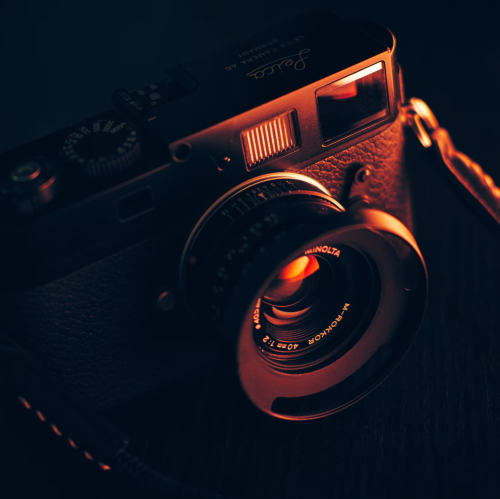
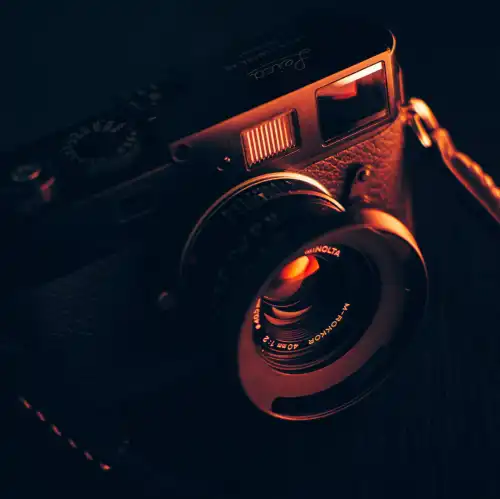
ajout des alt + compression et renommage des images

diff --git a/index.html b/index.html
@@ -4,7 +4,7 @@
 	<meta charset="UTF-8">
 	<meta name="viewport" content="width=device-width, initial-scale=1.0">
 	<title>Nina Carducci</title>
-	<link rel="preload" href="./assets/bootstrap/cleaned.min.css" as="style" onload="this.onload=null;this.rel='stylesheet'">
+	<link rel="preload" href="./assets/bootstrap/cleaned.css" as="style" onload="this.onload=null;this.rel='stylesheet'">
 	<link rel="stylesheet" href="./assets/style.css" defer>
 	<link rel="preconnect" href="https://fonts.googleapis.com">
 	<link rel="preconnect" href="https://fonts.gstatic.com" crossorigin>
@@ -24,7 +24,7 @@
 			<li><a href="#gallery">Galerie</a></li>
 			<li><a href="#services">Service</a></li>
 			<li><a href="#contact">Contact</a></li>
-			<li><a class="social-link" href="https://www.instagram.com/ninacarducci.photo/?hl=fr" target="_blank" aria-label="Lien vers le profil instagram"><img src="assets/images/instagram.webp" alt=""></a></li>
+			<li><a class="social-link" href="https://www.instagram.com/ninacarducci.photo/?hl=fr" target="_blank" aria-label="Lien vers le profil instagram"><img src="assets/images/instagram.webp" alt="Logo Instagram"></a></li>
 		</ul>
 	</nav>
 </div>
@@ -37,13 +37,13 @@
 		</div>
 		<div class="carousel-inner">
 			<div class="carousel-item active">
-				<img src="./assets/images/slider/ryoji-iwata-wUZjnOv7t0g-unsplash.webp" loading="eager" class="d-block w-100" alt="Homme d'affaire sur un passage piéton">
+				<img src="./assets/images/slider/homme-d-affaires-passage-pietons.webp" loading="eager" class="d-block w-100" alt="Homme d'affaire sur un passage piéton">
 			</div>
 			<div class="carousel-item">
-				<img src="./assets/images/slider/nicholas-green-nPz8akkUmDI-unsplash.webp" loading="eager" class="d-block w-100" alt="Public de concert de rock">
+				<img src="./assets/images/slider/public-concert-de-rock.webp" loading="eager" class="d-block w-100" alt="Public de concert de rock">
 			</div>
 			<div class="carousel-item">
-				<img src="./assets/images/slider/edward-cisneros-3_h6-1NPDGw-unsplash.webp" loading="eager" class="d-block w-100" alt="Jeunes mariés enlacés">
+				<img src="./assets/images/slider/jeunes-maries-enlaces.webp" loading="eager" class="d-block w-100" alt="Jeunes mariés enlacés">
 			</div>
 		</div>
 		<button class="carousel-control-prev" type="button" data-bs-target="#carouselExampleIndicators" data-bs-slide="prev">
@@ -60,7 +60,7 @@
 <main>
 <section id="about">
 	<div class="picture left">
-		<img src="./assets/images/nina.webp" alt="Nina Carducci">
+		<img src="./assets/images/nina-carducci.webp" alt="Nina Carducci">
 	</div>
 	<div id="about-me">
 		<h2 class="about-me__title">A propos de moi</h2>
@@ -73,15 +73,15 @@
 	<h2 class="title">Portfolio</h2>
 	<div class="container py-3">
 		<div class="gallery" style="display: none">
-			<img data-gallery-tag="Concert" class="gallery-item" src="./assets/images/gallery/concerts/aaron-paul-wnX-fXzB6Cw-unsplash.webp" tabindex="0"/>
-			<img data-gallery-tag="Entreprises" class="gallery-item" src="./assets/images/gallery/entreprise/ali-morshedlou-WMD64tMfc4k-unsplash.webp" tabindex="0"/>
-			<img data-gallery-tag="Entreprises" class="gallery-item" src="./assets/images/gallery/entreprise/jason-goodman-tHO1_OuKbg0-unsplash.webp" tabindex="0"/>
-			<img data-gallery-tag="Mariages" class="gallery-item" src="./assets/images/gallery/mariage/hannah-busing-RvF2R_qMpRk-unsplash.webp" tabindex="0"/>
-			<img data-gallery-tag="Portrait" class="gallery-item" src="./assets/images/gallery/portraits/ade-tunji-rVkhWWZFAtQ-unsplash.webp" tabindex="0"/>
-			<img data-gallery-tag="Mariages" class="gallery-item" src="./assets/images/gallery/mariage/jakob-owens-SiniLJkXhMc-unsplash.webp" tabindex="0"/>
-			<img data-gallery-tag="Portrait" class="gallery-item" src="./assets/images/gallery/portraits/nino-van-prattenburg-443cl1uR_8-unsplash.webp" tabindex="0"/>
-			<img data-gallery-tag="Concert" class="gallery-item" src="./assets/images/gallery/concerts/austin-neill-hgO1wFPXl3I-unsplash.webp" tabindex="0"/>
-			<img data-gallery-tag="Entreprises" class="gallery-item" src="./assets/images/gallery/entreprise/mateus-campos-felipe-Fsgzm8N0hIY-unsplash.webp" tabindex="0"/>
+			<img data-gallery-tag="Concert" class="gallery-item" src="./assets/images/gallery/concerts/photo-concert-lumieres-rouges.webp" tabindex="0" alt="Concert et lumières rouges"/>
+			<img data-gallery-tag="Entreprises" class="gallery-item" src="./assets/images/gallery/entreprise/photo-homme-d-affaire-costume.webp" tabindex="0" alt="Homme d'affaire en costume"/>
+			<img data-gallery-tag="Entreprises" class="gallery-item" src="./assets/images/gallery/entreprise/photo-femme-entreprise.webp" tabindex="0" alt="Femme en entreprise"/>
+			<img data-gallery-tag="Mariages" class="gallery-item" src="./assets/images/gallery/mariage/photo-mariage-mains.webp" tabindex="0" alt="Mains de mariés"/>
+			<img data-gallery-tag="Portrait" class="gallery-item" src="./assets/images/gallery/portraits/photo-portrait-homme-soleil.webp" tabindex="0" alt="Portrait d'homme au soleil"/>
+			<img data-gallery-tag="Mariages" class="gallery-item" src="./assets/images/gallery/mariage/photo-maries-palmier.webp" tabindex="0" alt="Mariés devant un palmier"/>
+			<img data-gallery-tag="Portrait" class="gallery-item" src="./assets/images/gallery/portraits/photo-portrait-jeune-femme.webp" tabindex="0" alt="Portrait de jeune femme"/>
+			<img data-gallery-tag="Concert" class="gallery-item" src="./assets/images/gallery/concerts/photo-concert-chanteur-fumee.webp" tabindex="0" alt="Chanteur lors d'un concert"/>
+			<img data-gallery-tag="Entreprises" class="gallery-item" src="./assets/images/gallery/entreprise/photo-femme-entreprise-ordinateur.webp" tabindex="0" alt="Femme d'entreprise sur son ordinateur"/>
 		</div>
 	</div>
 	
